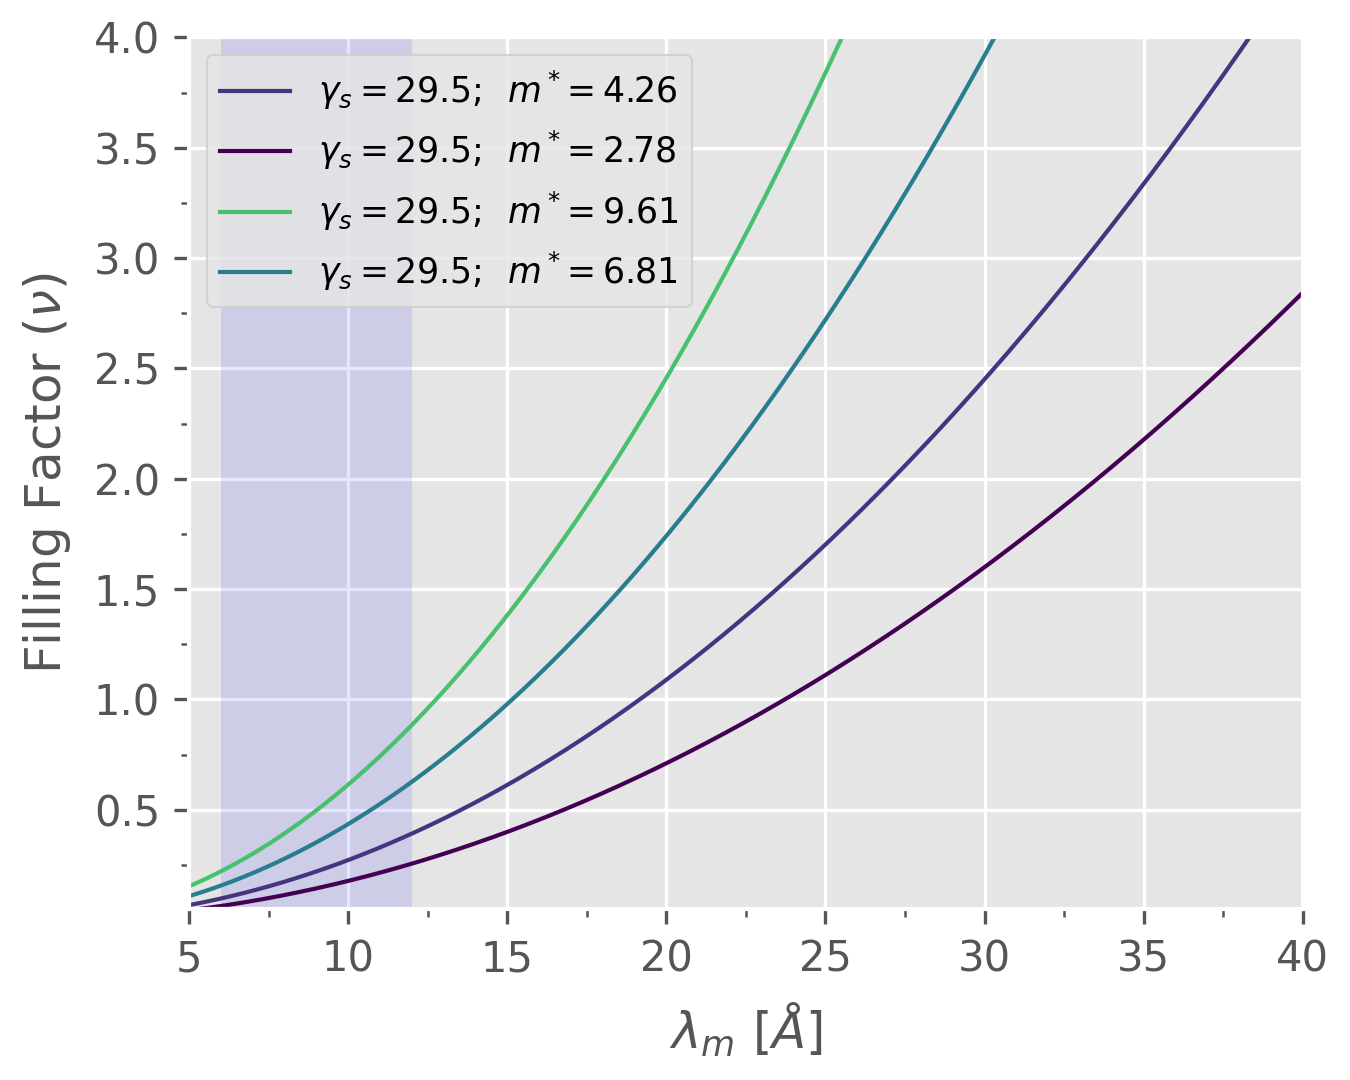
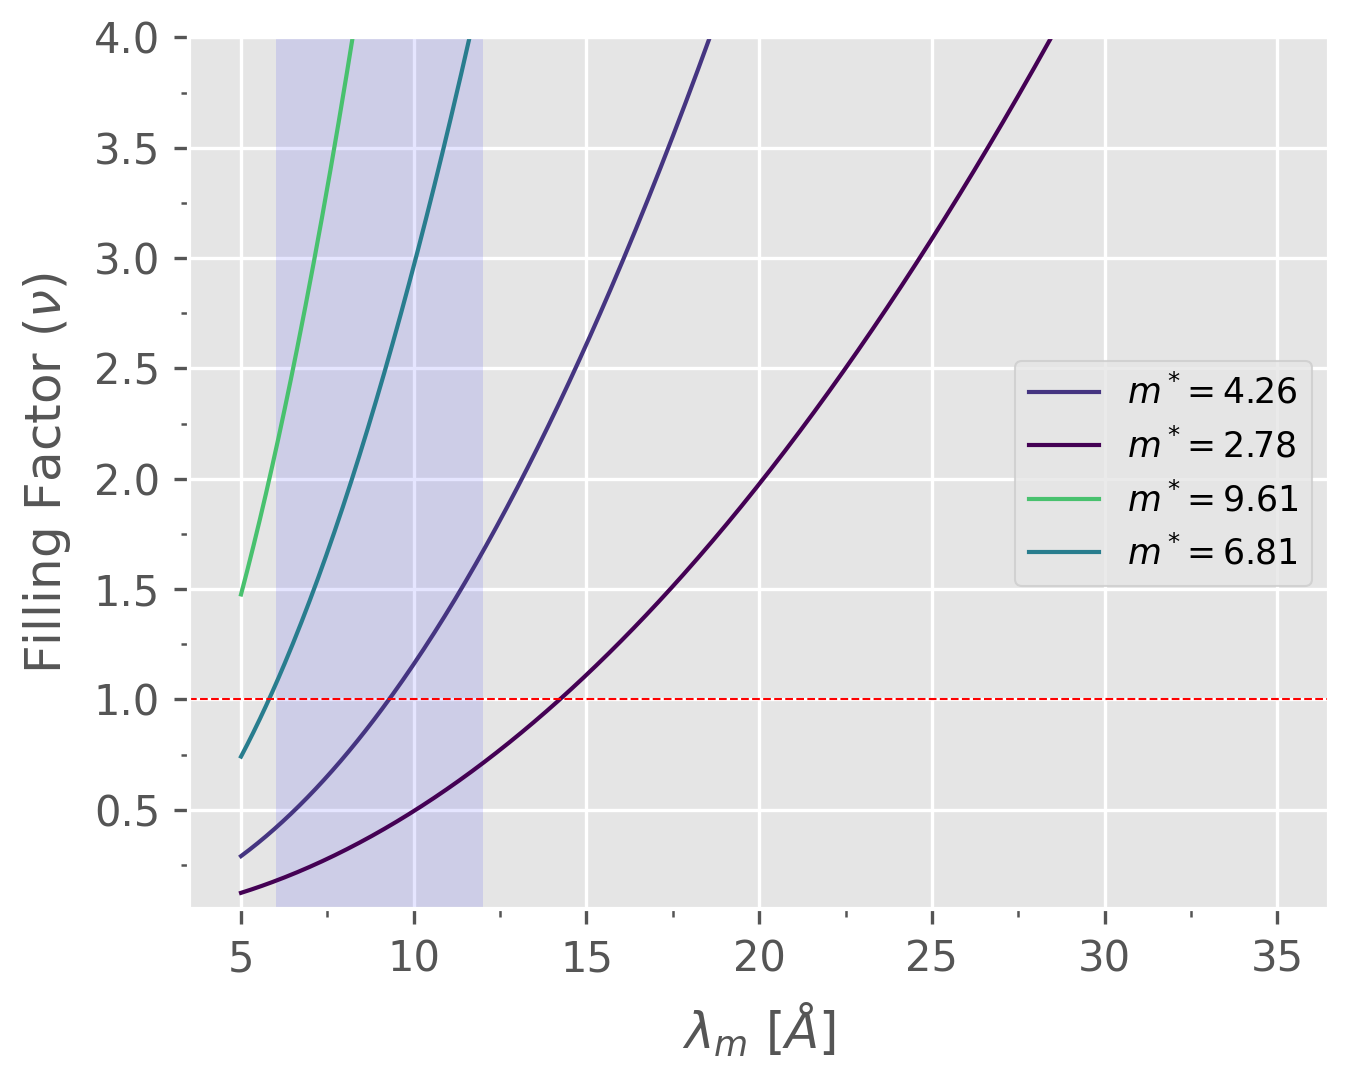
[/assets/posts/general_wigner_crystal/wc_gammas_dft.py] bugfix

diff --git a/assets/posts/general_wigner_crystal/wc_gammas_dft.py b/assets/posts/general_wigner_crystal/wc_gammas_dft.py
@@ -9,7 +9,7 @@ plt.style.use('ggplot')
 # plt.style.use('dark_background')
 ################################################################################
 Ndat    = 500
-Lm      = np.linspace(5, 40, Ndat, endpoint=True)
+Lm      = np.linspace(5, 35, Ndat, endpoint=True)
 nu      = np.linspace(0.05, 4, Ndat, endpoint=True)
 M       = np.array([4.26, 2.78, 9.61, 6.81])
 g       = 2.0
@@ -21,7 +21,7 @@ d2        = 3.40   # HOPG
 epsilon_1 = 1.558  # CoCl2
 epsilon   = (d1 + d2) * epsilon_1 / d1
 
-nu_wc_max = M[:,None] * (g * Lm[None,:] / a0 / epsilon / gam_s0)**2 * (np.sqrt(3) / 2 / np.pi)
+nu_wc_max = (M[:,None] * g * Lm[None,:] / a0 / epsilon / gam_s0)**2 * (np.sqrt(3) / 2 / np.pi)
 nu_mott   = np.sqrt(3) / 2 * (Lm[None,:] * M[:,None] / a0 / epsilon)**2
 
 ################################################################################
@@ -37,7 +37,8 @@ for ii in range(len(M)):
     ax.plot(Lm, nu_wc_max[ii],
             color=mpl.cm.viridis((M[ii] - M.min()) / M.max()),
             ls='-', lw=1.0,
-            label=r'$\gamma_s=29.5;\enspace m^*\!={}$'.format(M[ii]))
+            # label=r'$\gamma_s=29.5;\enspace m^*\!={}$'.format(M[ii]))
+            label=r'$m^*\!={}$'.format(M[ii]))
 
     # ax.plot(Lm, nu_mott[ii],
     #         color=mpl.cm.viridis((M[ii] - M.min()) / M.max()),
@@ -45,14 +46,15 @@ for ii in range(len(M)):
     #         label=r'Mott Criterion ($m^\ast\! = {}$)'.format(M[ii]))
 
 ax.axvspan(xmin=6, xmax=12, color='blue', lw=0, alpha=0.1)
-print(ax.get_legend_handles_labels())
 ################################################################################
 ax.legend(
-    loc='upper left',
+    loc='center right',
     fontsize='small'
 )
 
-ax.set_xlim(Lm.min(), Lm.max())
+ax.axhline(y=1.0, ls='--', color='r', lw=0.5)
+
+# ax.set_xlim(0, 20.5)
 ax.set_ylim(nu.min(), nu.max())
 
 ax.set_xlabel(r'$\lambda_m$ [$\AA$]', labelpad=5)
